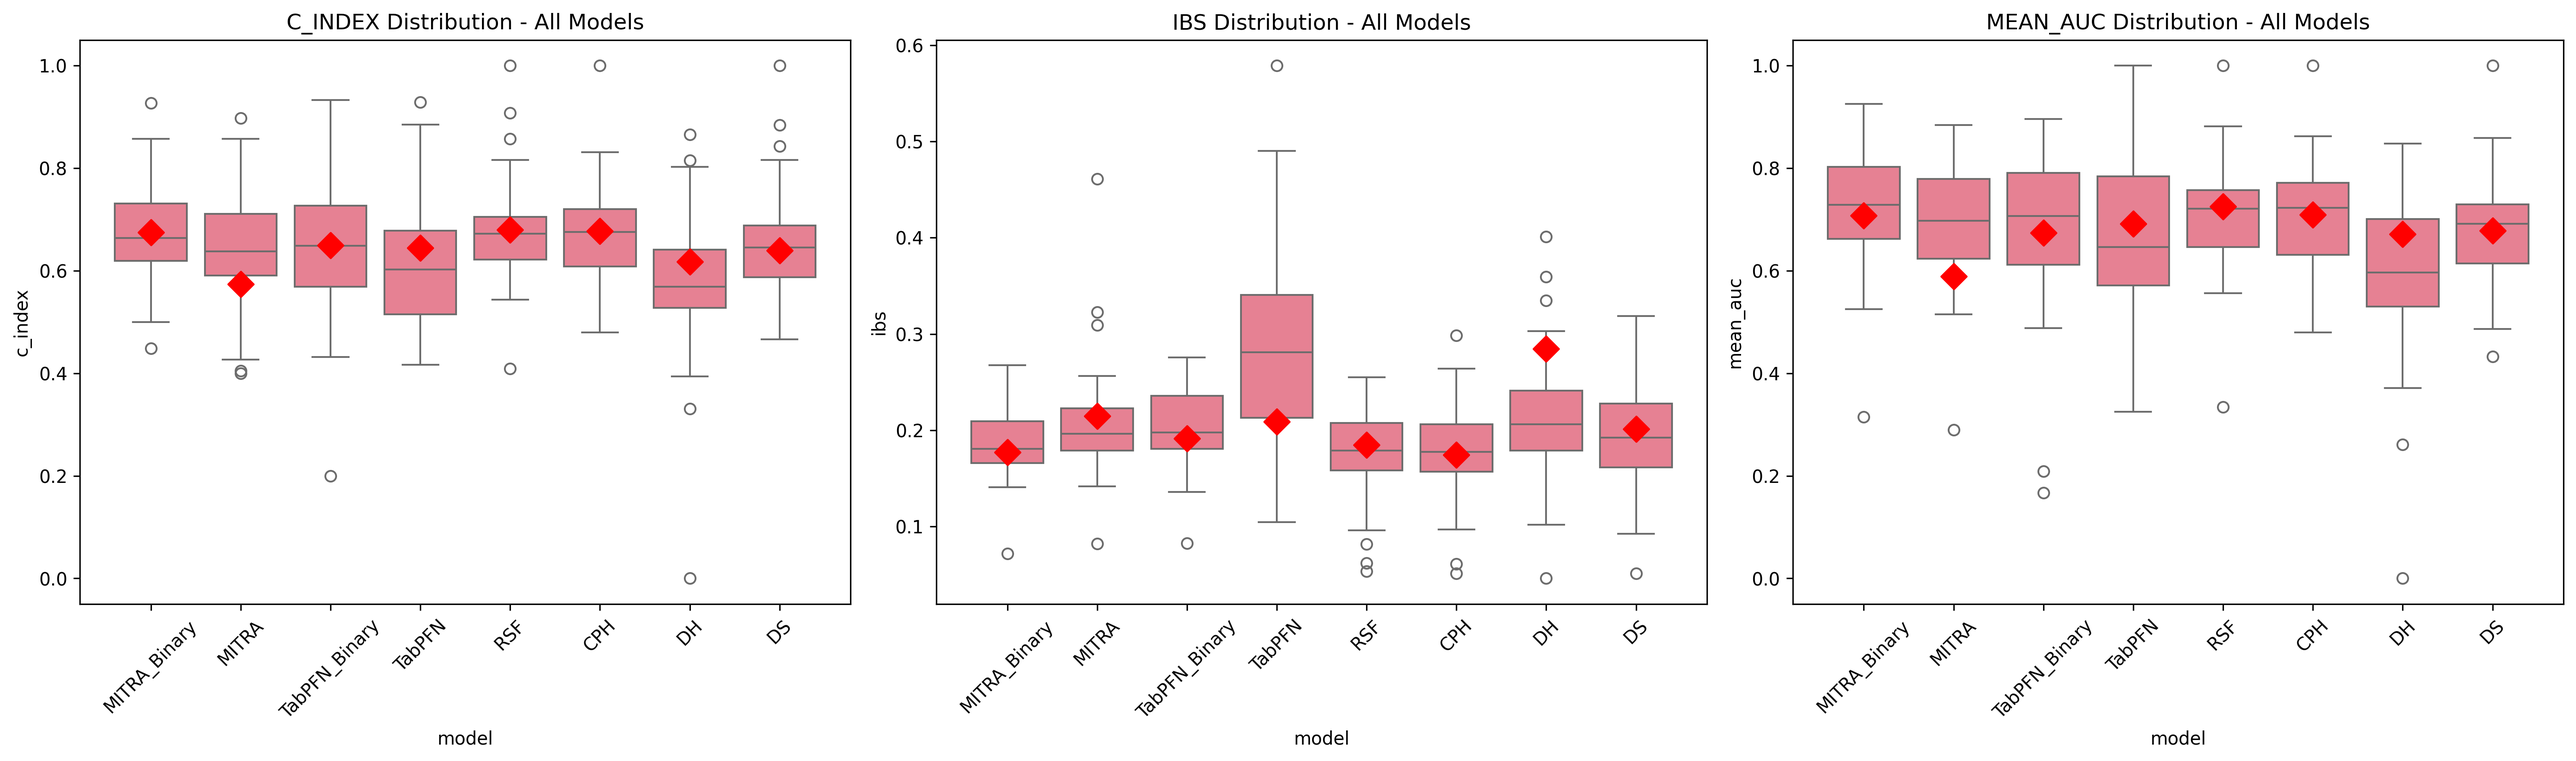
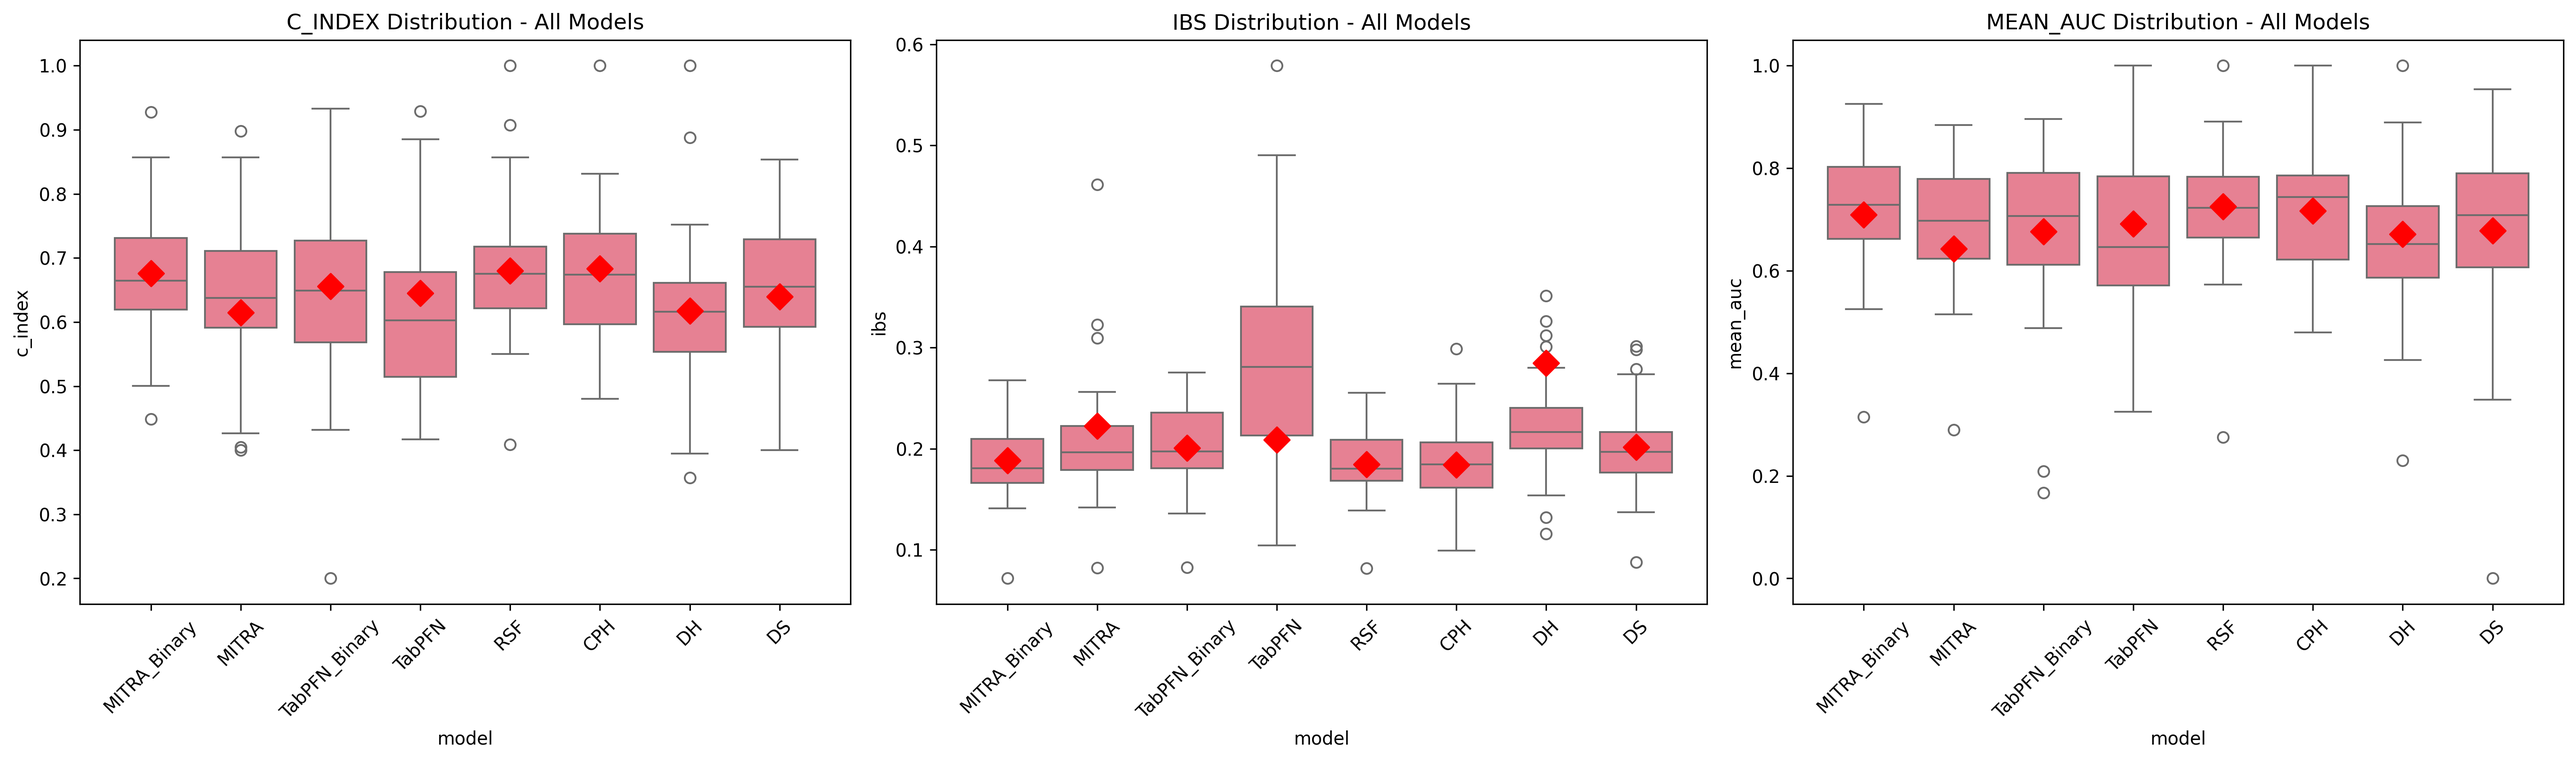
final result

diff --git a/baseline.py b/baseline.py
@@ -110,17 +110,49 @@ def compute_ibs(model, x_test, y_test, y_train, times, is_deephit=False, is_deep
 
 def compute_mean_auc(model, x_test, y_test, y_train, times, is_deephit=False, is_deepsurv=False):
     """
-    Compute mean time-dependent AUC across `times`.
+    Compute mean time-dependent AUC across `times` using time-dependent risk scores.
     """
     if is_deephit:
-        deephit_pmf = model.predict_pmf(x_test).detach().cpu().numpy()
-        time_bins = np.arange(1, deephit_pmf.shape[1] + 1)  
-        expected_time = np.sum(deephit_pmf * time_bins, axis=1)
-        risk_scores = -expected_time
+        # Get survival probabilities and convert to time-dependent risk scores
+        # Convert x_test to tensor if it's not already
+        if not isinstance(x_test, torch.Tensor):
+            device = next(model.net.parameters()).device
+            x_test_tensor = torch.tensor(x_test.values if hasattr(x_test, 'values') else x_test, 
+                                       dtype=torch.float32, device=device)
+        else:
+            x_test_tensor = x_test
+            
+        deephit_surv_probs = model.predict_surv_df(x_test_tensor).T.values
+        # Interpolate survival probabilities at evaluation times
+        surv_at_times = np.array([np.interp(times, model.duration_index, sp) for sp in deephit_surv_probs])
+        # Convert to risk scores: risk = 1 - survival_probability
+        risk_scores = 1 - surv_at_times  # shape: (n_samples, n_times)
     elif is_deepsurv:
-        risk_scores = model.predict(x_test).flatten().cpu().numpy()
+        # Get survival functions and convert to time-dependent risk scores
+        # Ensure baseline hazards are computed
+        if not hasattr(model, 'baseline_hazards_') or model.baseline_hazards_ is None:
+            model.compute_baseline_hazards()
+        
+        # Convert x_test to tensor if it's not already
+        if not isinstance(x_test, torch.Tensor):
+            device = next(model.net.parameters()).device
+            x_test_tensor = torch.tensor(x_test.values if hasattr(x_test, 'values') else x_test, 
+                                       dtype=torch.float32, device=device)
+        else:
+            x_test_tensor = x_test
+            
+        deepsurv_surv = model.predict_surv_df(x_test_tensor)
+        deepsurv_surv_probs = deepsurv_surv.T.values
+        # Interpolate survival probabilities at evaluation times
+        surv_at_times = np.array([np.interp(times, deepsurv_surv.index, sp) for sp in deepsurv_surv_probs])
+        # Convert to risk scores: risk = 1 - survival_probability
+        risk_scores = 1 - surv_at_times  # shape: (n_samples, n_times)
     else:
-        risk_scores = model.predict(x_test)
+        # For RSF and CoxPH, get survival functions and convert to time-dependent risk scores
+        surv_funcs = model.predict_survival_function(x_test)
+        surv_at_times = np.row_stack([sf(times) for sf in surv_funcs])
+        # Convert to risk scores: risk = 1 - survival_probability
+        risk_scores = 1 - surv_at_times  # shape: (n_samples, n_times)
 
     _, mean_auc = cumulative_dynamic_auc(y_train, y_test, risk_scores, times)
     return mean_auc
